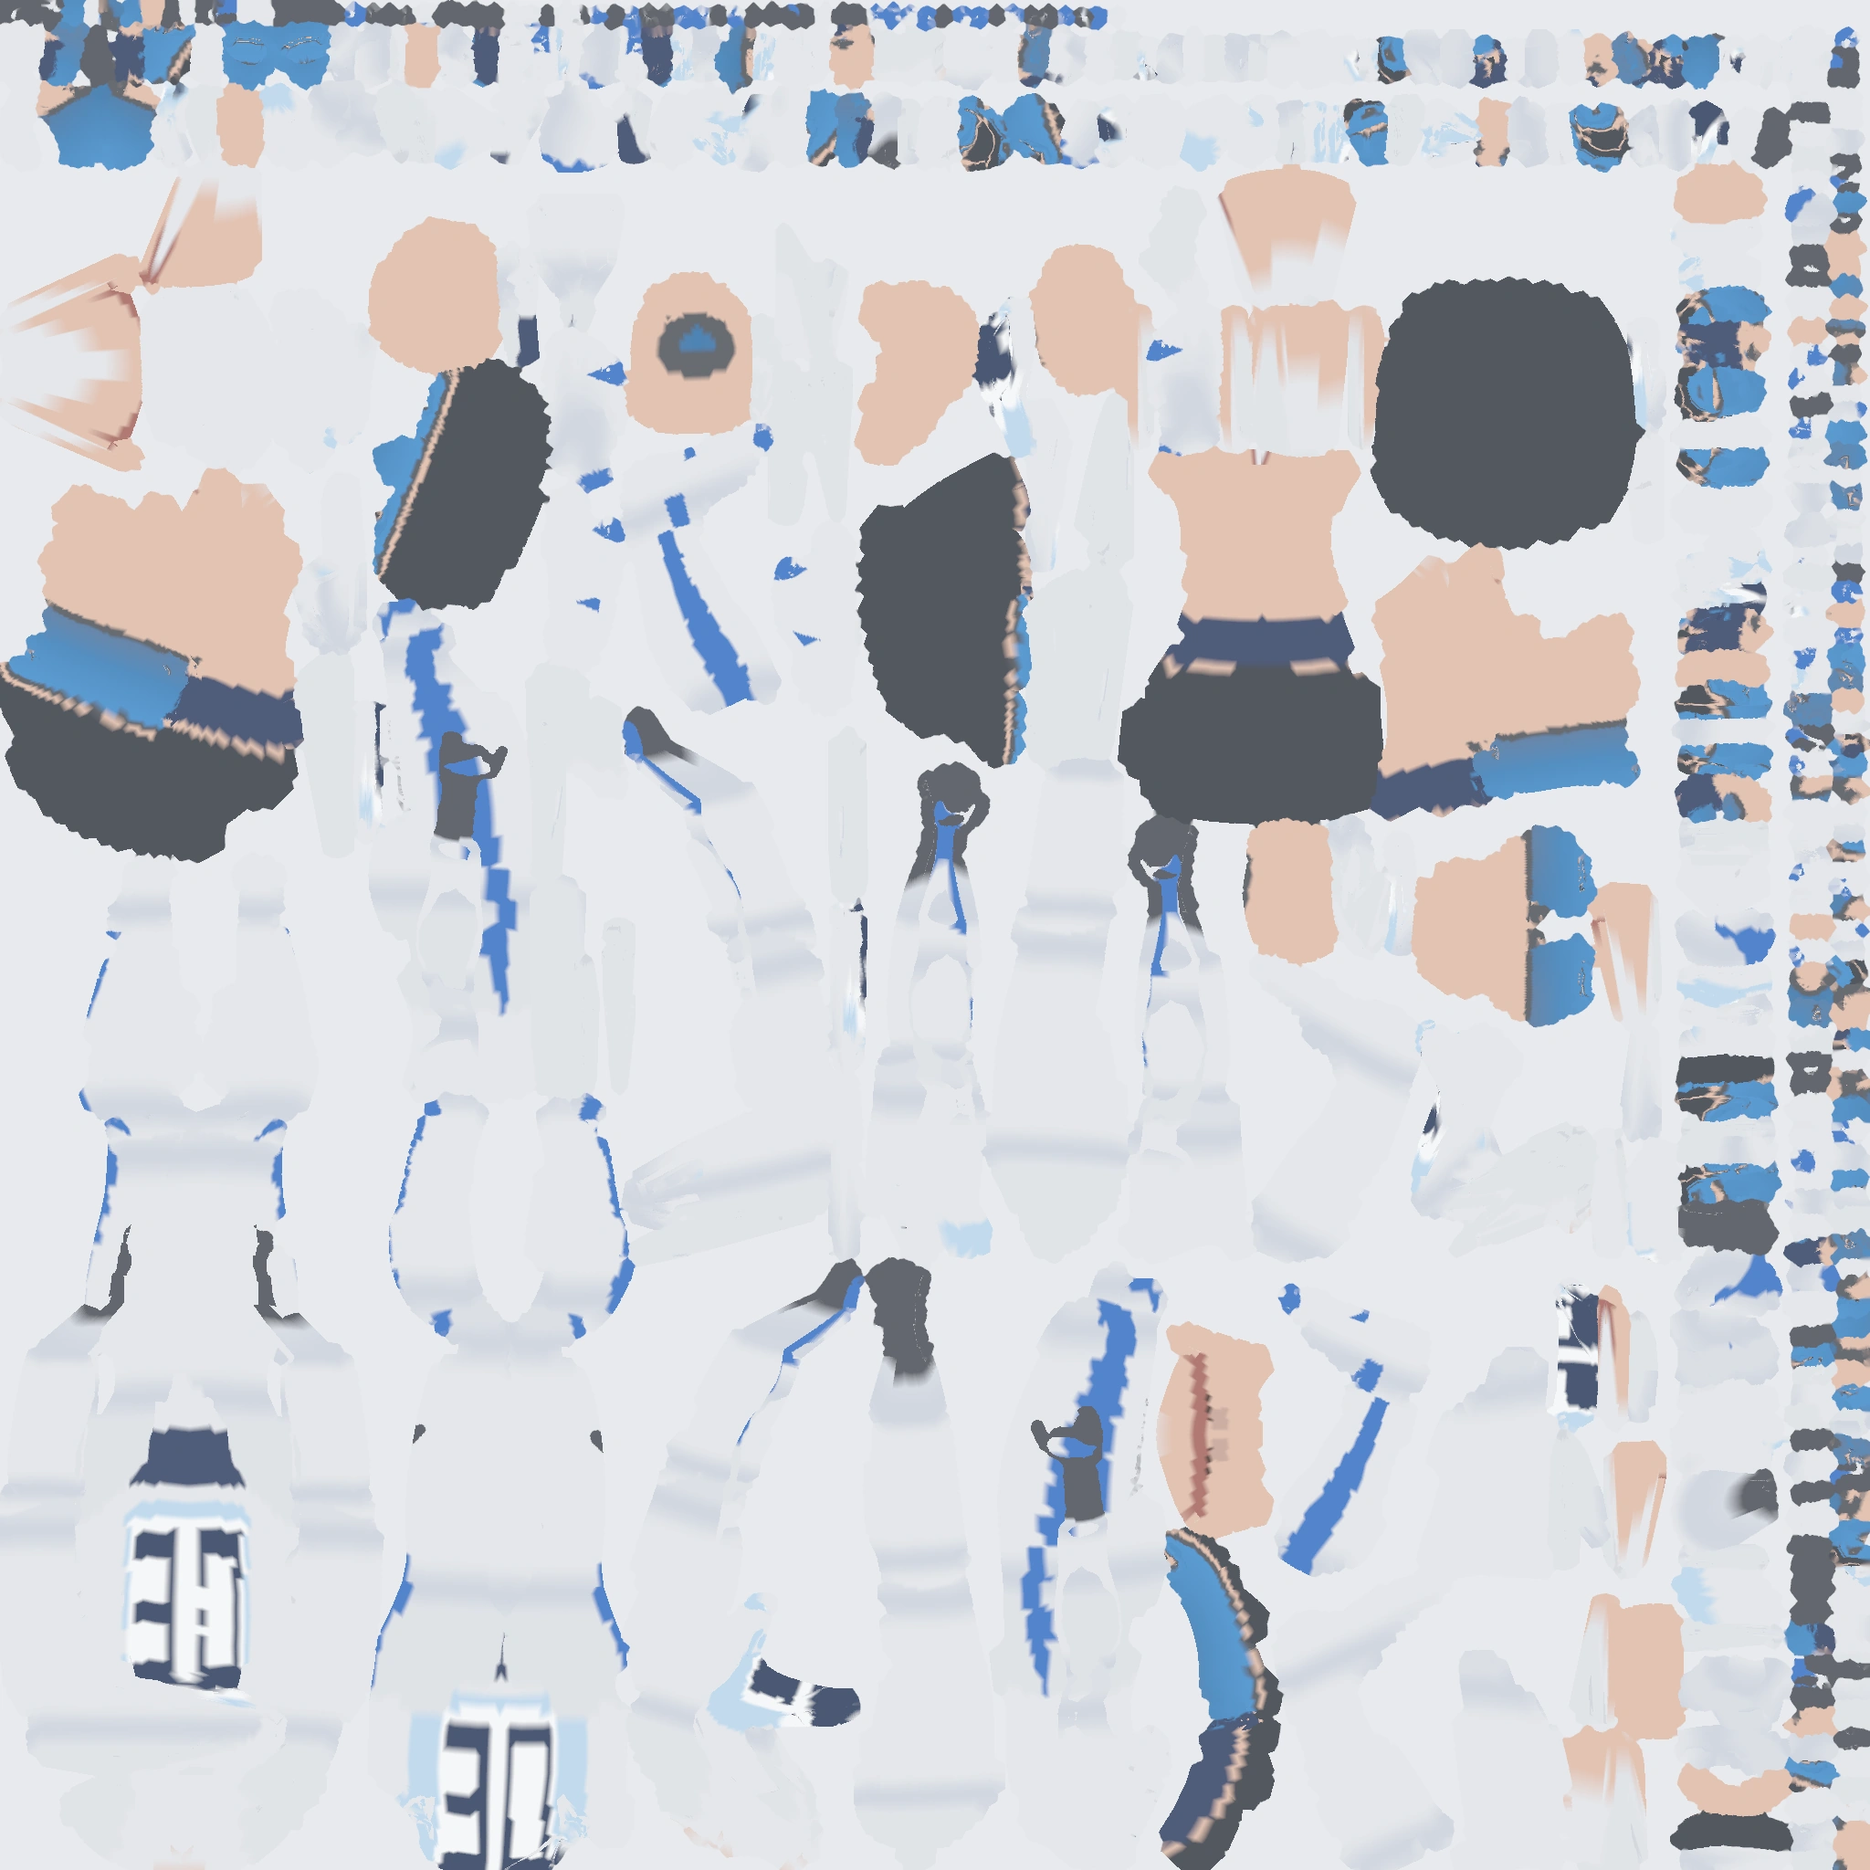
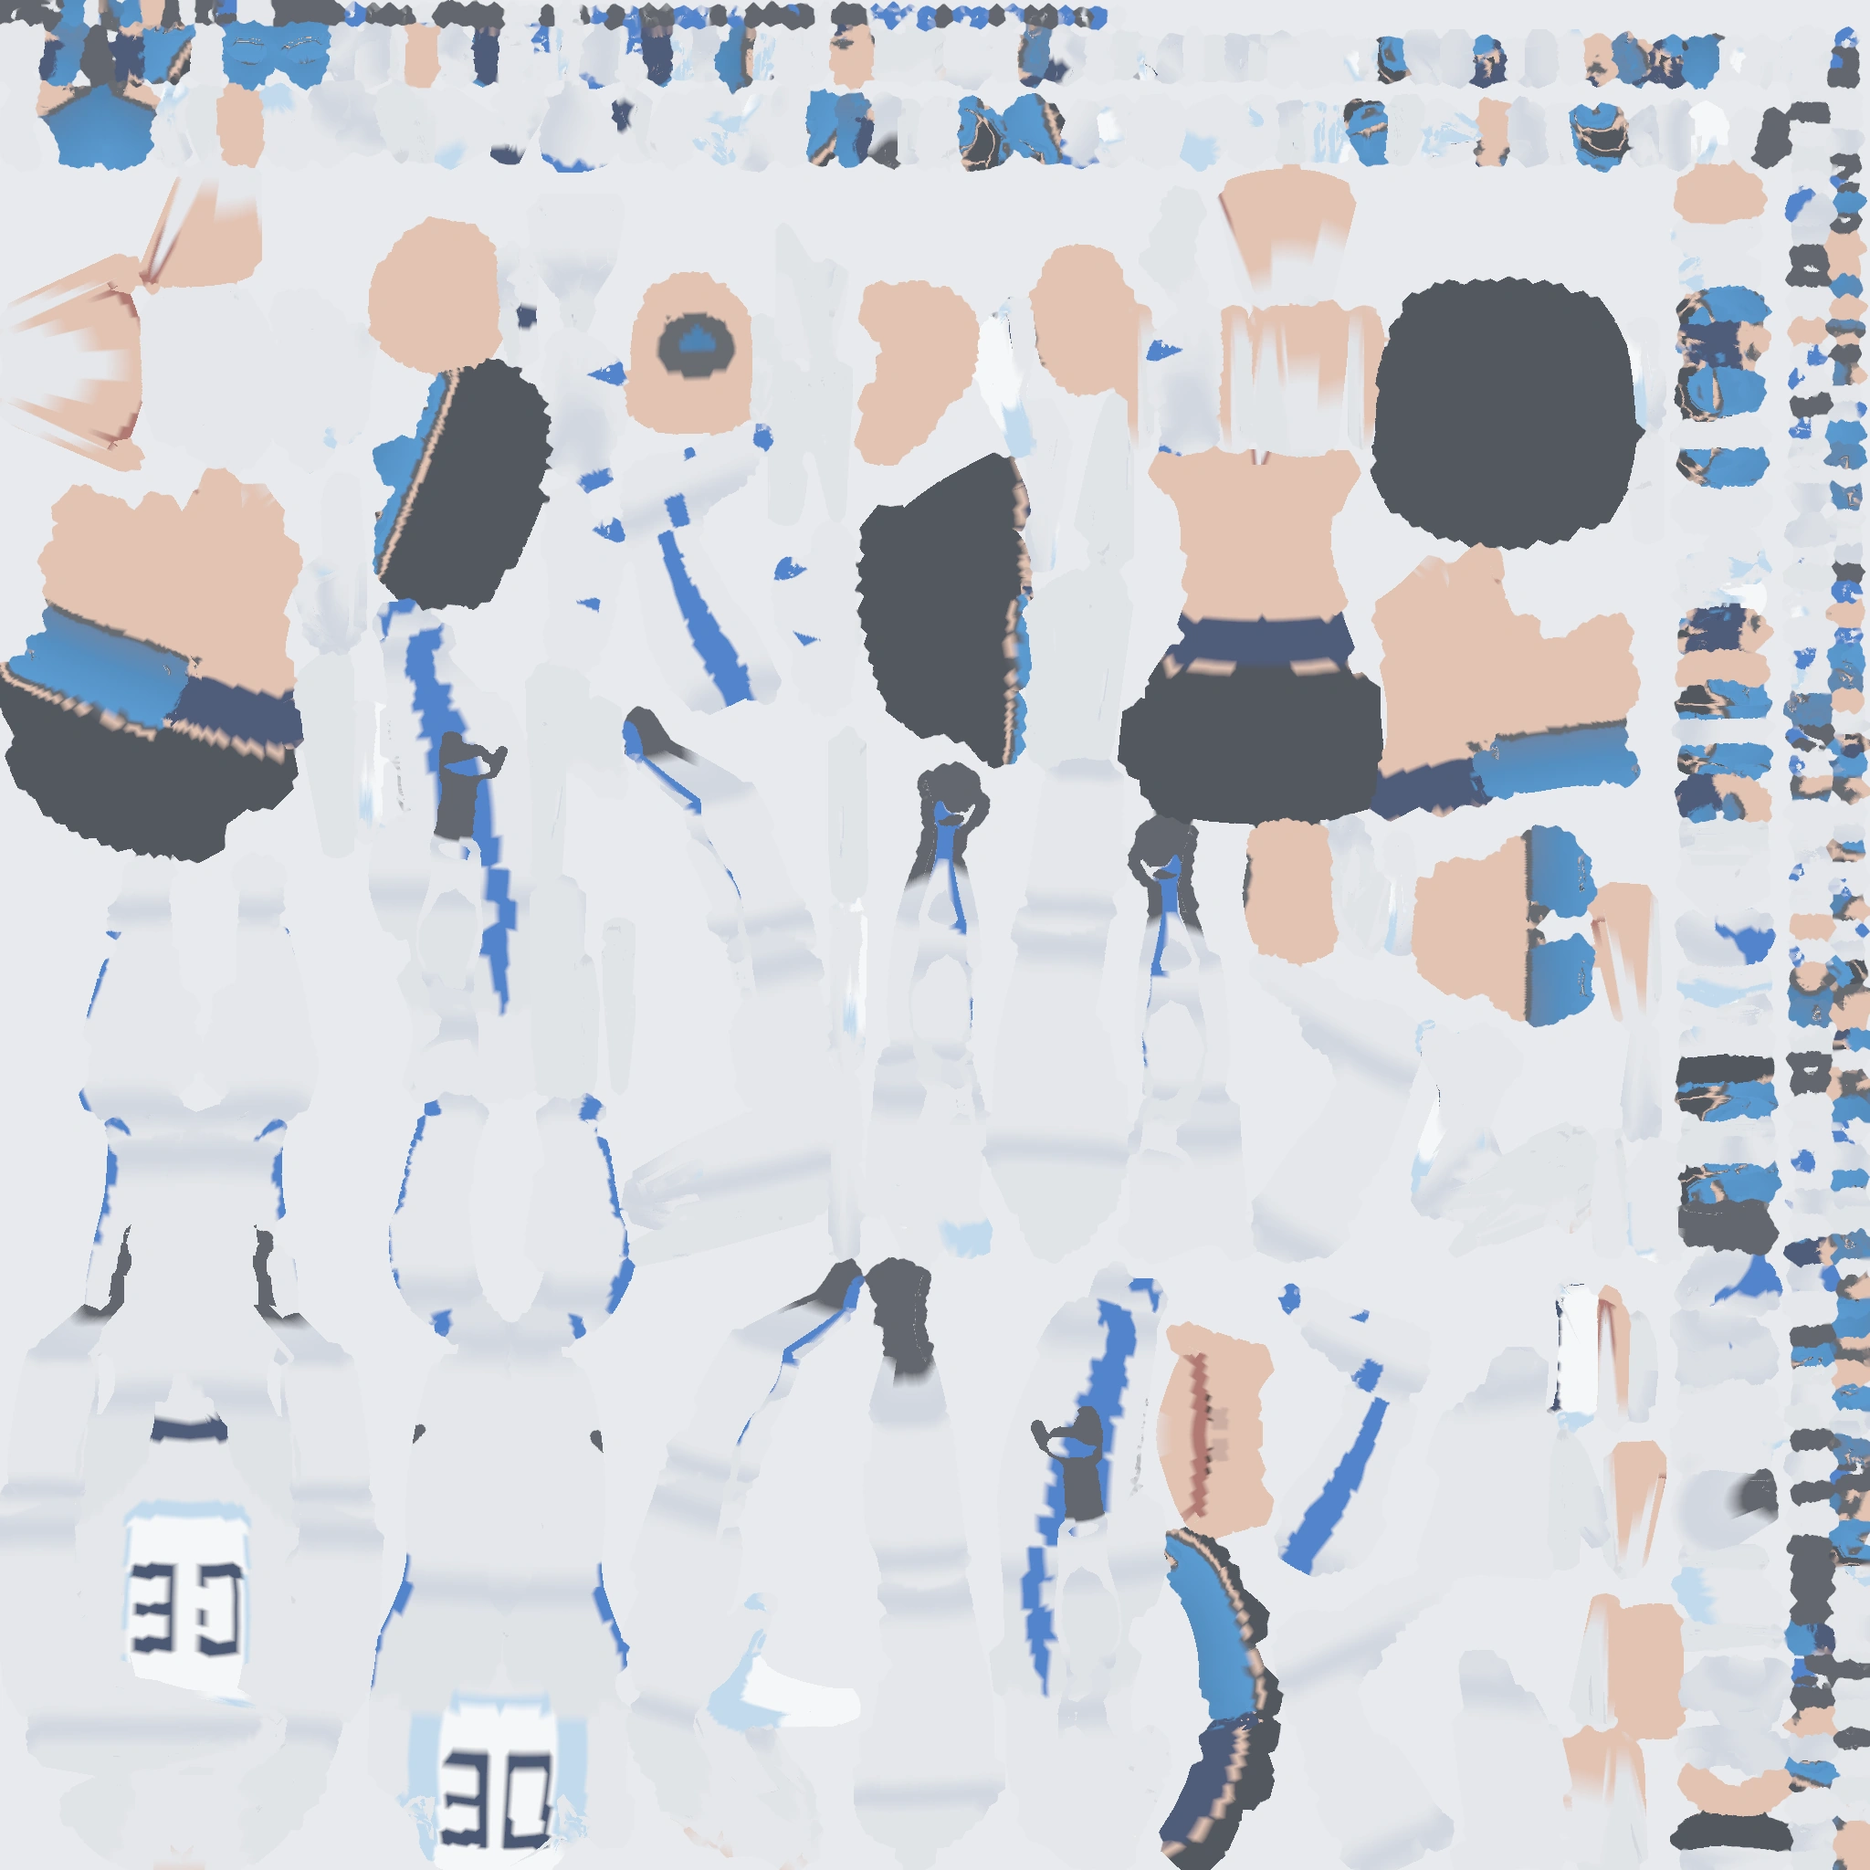
Opus: the back bib's dark slab was the WAISTBAND, and the "30" was a bar, not a numeral
Clears the blocking red: bib-number back-face navyFrac 0.4074 -> 0.0840
(gate < 0.25). Two independent defects, both measured off the reviewer's
own shots/bib_back.png before anything was changed.

1. THE DARK SLAB IS NOT THE NUMBER. Decomposing the gate's box by row
   band on the shipped shot: the bottom two fifths read 0.612 and 0.832
   navy while the three fifths holding the actual digits read 0.086 /
   0.566 / 0.000. That bottom band is the WAIST region (torso along
   -0.95..-0.70), which began 0.02 along-units below the bib's lower edge
   (-0.68) — so from behind, where a forward-leaning torso lifts its rear
   surface, a 7 cm navy band sat directly under the bib and filled 40% of
   the box. It was ~70% of the 0.41 navy fraction; the digits were never
   the problem. The waistband is now a belt at the hip (-1.00..-0.90).

2. THE DIGITS REALLY WERE BARS. The ink band took 90% of the plate
   height, making each digit 7.0 x 21.3 cm — aspect 0.33. A drawn numeral
   is near 0.58. The band is now the middle 52% of the plate and a digit
   measures 7.0 x 12.3 cm, aspect 0.573. New build gate BIB_ASPECT
   (0.45..0.75) on the cell aspect; negative control
   BODY_SABOTAGE_BIBASPECT=1 restores the old band and FAILS the gate at
   0.331 (scratch s5/negctl_aspect.log).

Two things I got wrong on the way, recorded because the numbers say so:

  - I diagnosed the front/back ink asymmetry (bake gate: front 0.377 vs
[…]

diff --git a/index.html b/index.html
@@ -13,11 +13,11 @@
       ASSET_V in game.js or the preload fetches a different URL from the one
       the loader asks for and the browser downloads each file twice.
     -->
-    <link rel="preload" as="fetch" crossorigin="anonymous" href="assets/athlete_body.glb?v=37" />
-    <link rel="preload" as="image" href="assets/athlete_albedo.webp?v=37" />
-    <link rel="preload" as="image" href="assets/athlete_normal.webp?v=37" />
-    <link rel="preload" as="image" href="assets/athlete_ao.webp?v=37" />
-    <link rel="preload" as="fetch" crossorigin="anonymous" href="assets/athlete_maps.json?v=37" />
+    <link rel="preload" as="fetch" crossorigin="anonymous" href="assets/athlete_body.glb?v=38" />
+    <link rel="preload" as="image" href="assets/athlete_albedo.webp?v=38" />
+    <link rel="preload" as="image" href="assets/athlete_normal.webp?v=38" />
+    <link rel="preload" as="image" href="assets/athlete_ao.webp?v=38" />
+    <link rel="preload" as="fetch" crossorigin="anonymous" href="assets/athlete_maps.json?v=38" />
     <style>
         * { margin: 0; padding: 0; box-sizing: border-box; }
         html, body { width: 100%; height: 100%; overflow: hidden; background: #000; }
@@ -2702,7 +2702,7 @@
             { local: 'engine/core/tricks.js?v=22',        cdn: null },
             { local: 'engine/core/landing.js?v=22',       cdn: null },
             { local: 'engine/disciplines/aerial-ski.js?v=22',  cdn: null },
-            { local: 'game.js?v=31',                   cdn: null }
+            { local: 'game.js?v=32',                   cdn: null }
         ];
         var ERR_HTML = '<div style="text-align:center;padding:20px"><div style="font-size:48px;margin-bottom:16px">⛷</div>'
             + '<h2 style="color:#fff;margin-bottom:10px">Could not load game engine</h2>'

diff --git a/game.js b/game.js
@@ -1587,7 +1587,7 @@ void main(void) {
     // assets did not, so a rebuilt athlete or a re-baked map kept rendering from
     // the browser cache and every change looked like it had not been applied.
     // Bump this whenever assets/ is regenerated.
-    const ASSET_V = '?v=37';   // 37: item 11 — leg taper (calf/thigh 0.937 -> 0.718): the shin is sized by the taper target, not by the calf/hip lower bound that inflated it; 36: goggles moved onto the eyes (band 0.40-0.57h, mirrored blue) + helmet re-seated on the skull (cranium bbox midpoint, not centroid); 35: athlete head atlas share 4.9%->28.3% + maps re-encoded PNG->WebP (8.26 MB -> 1.12 MB); 34: P5 chopped-landing bake
+    const ASSET_V = '?v=38';   // 38: bib number — back plate un-clipped from bib_mask's wrap ramp (bake ink front/back 0.377/0.175 -> 0.110/0.109), digit aspect 0.33 -> 0.57, navy waistband moved off the bib's lower edge to the hip; 37: item 11 — leg taper (calf/thigh 0.937 -> 0.718): the shin is sized by the taper target, not by the calf/hip lower bound that inflated it; 36: goggles moved onto the eyes (band 0.40-0.57h, mirrored blue) + helmet re-seated on the skull (cranium bbox midpoint, not centroid); 35: athlete head atlas share 4.9%->28.3% + maps re-encoded PNG->WebP (8.26 MB -> 1.12 MB); 34: P5 chopped-landing bake
 
     // ── Baked lighting for the static scenery ───────────────────────────────
     // Blender bakes the two terms this renderer cannot compute, and BOTH are

diff --git a/blender/build_body.py b/blender/build_body.py
@@ -4230,14 +4230,25 @@ def bib_mask(name, along, front, lat):
 #   what makes both readable to their respective viewers instead of one being
 #   printed through the body like a transfer decal.
 #
-#   SIZE. The bib spans 1.20 along-units (h/2 = 0.275 m per unit ⇒ 0.33 m).
-#   The digit plate covers along −0.54..+0.32 (71% of the bib height) and the
-#   ink band 90% of THAT, giving digits ≈ 0.19 m tall ≈ 58–65% of the bib —
-#   inside the acceptance band (≥ 60% of the bib height).
+#   SIZE, and the ASPECT that size implies. The bib spans 1.20 along-units
+#   (h/2 = 0.275 m per unit ⇒ 0.33 m). The digit plate covers along
+#   −0.54..+0.32 (71% of the bib height ⇒ 0.2365 m) and is 2·NUM_W = 0.15 m
+#   wide, so each of the two digit cells is 0.47 · 0.15 = 0.0705 m wide.
+#   The ink band used to take 90% of the plate height, which made every digit
+#   0.0705 m wide by 0.213 m tall — an aspect of 0.33, i.e. a vertical BAR.
+#   A drawn numeral is about 0.58 wide-over-tall, so the band is now the
+#   middle 52% of the plate (0.24..0.76) and a digit measures 0.0705 × 0.122 m
+#   ⇒ aspect 0.58. The plate's own footprint is deliberately unchanged: it
+#   sets how much bib blue the render gate's box sees beside and around the
+#   number, and that balance is what bib-number.spec's blueFrac bands measure.
 
 NUM_W = 0.075                    # patch half-width in metres (15 cm wide)
 NUM_A0, NUM_A1 = -0.54, 0.32     # patch along-span
-NUM_DV0, NUM_DV1 = 0.06, 0.96    # ink occupies this vertical share of the patch
+# Negative control for the digit-aspect gate: the pre-fix full-height ink
+# band, which made each digit 7.0 x 21.3 cm (aspect 0.33 — a vertical bar).
+NUM_DV0, NUM_DV1 = ((0.06, 0.96)
+                    if os.environ.get('BODY_SABOTAGE_BIBASPECT') == '1'
+                    else (0.24, 0.76))   # ink's vertical share of the patch
 NUM_INK = (0.07, 0.10, 0.18)     # dark navy on the white plate
 
 # Glyph outlines as (u0,u1,v0,v1) rectangles in a per-digit cell [0,1]².
@@ -4274,6 +4285,18 @@ def number_uv(front, lx, along):
     and vice versa. Swapping the branches puts each rule on the side its
     normal actually faces; both plates now read left-to-right to their own
     viewer (verified in the rebuilt assets at the look camera).
+
+    STILL OPEN (session 5, 2026-08-29). Paused close-ups taken down
+    _athleteFacing().forward (scratch s5/plate*_{front,back}_z.png) show the
+    CHEST reading a clean "30" and the BACK reading a mirrored glyph pair.
+    Both branch values were built and photographed: with `- lx` the back
+    reads "E0" (cell order right, each glyph mirrored); with `+ lx` it reads
+    "0E" (cell order reversed, glyphs still mirrored). No choice of sign in
+    THIS function produces a correct back, because flipping u flips the cell
+    order and the within-cell orientation together — so whatever mirrors the
+    back plate is upstream of the u mapping, not in it. `- lx` is kept: it is
+    the shipped mapping and it is the one that gets the digit ORDER right.
+    Do not "fix" this by flipping the sign again; it has been measured.
     """
     u = (NUM_W + lx) / (2 * NUM_W) if front > 0 else (NUM_W - lx) / (2 * NUM_W)
     return u, (along - NUM_A0) / (NUM_A1 - NUM_A0)
@@ -4609,7 +4632,16 @@ def paint_suit(obj, lm):
                 col, tag = HELMET, 'helmet'
         elif name.startswith('lowerArm') and along < -0.78:
             col, tag = GLOVE, 'glove'
-        elif name == 'torso' and -0.95 < along < -0.70:
+        elif name == 'torso' and -1.00 < along < -0.90:
+            # A waistband at the HIP, not a slab across the lower back. It
+            # used to span -0.95..-0.70, i.e. it began 2 hundredths of an
+            # along-unit below the bib's lower edge (-0.68) — so from behind,
+            # where a forward-leaning torso lifts its rear surface, a 7 cm
+            # navy band sat immediately under the bib and filled the bottom
+            # 40% of the render gate's box: measured 0.61 and 0.83 navy in
+            # the box's lowest two fifths, against 0.09/0.57/0.00 for the
+            # three fifths that hold the actual number. That band, not the
+            # digits, was ~70% of the back face's 0.4099 navy fraction.
             col, tag = WAIST, 'waist'
         elif name.startswith(('upperLeg', 'lowerLeg')):
             # See displace_suit for the transverse-angle convention: outboard is
@@ -4625,16 +4657,26 @@ def paint_suit(obj, lm):
             if dphi < 0.32:
                 col, tag = STRIPE, 'stripe'
 
-        if bib_mask(name, along, front, lx) > 0.5:
-            # A real competition numeral: dark navy "30" on the white plate,
-            # on both faces, each reading left-to-right to its own viewer
-            # (see the orientation essay above bib_mask).
-            if in_number_patch(name, along, front, lx):
-                u, v = number_uv(front, lx, along)
-                col = NUM_INK if digit30_mask(u, v) > 0.5 else BIB_NUMBER
-                tag = 'number'
-            else:
-                col, tag = BIB, 'bib'
+        # A real competition numeral: dark navy "30" on the white plate, on
+        # both faces, each reading left-to-right to its own viewer (see the
+        # orientation essay above bib_mask).
+        #
+        # The plate is tested BEFORE, and independently of, the wrap ramp.
+        # It used to be nested inside `bib_mask > 0.5`. That nesting was a
+        # latent trap rather than an active bug: the back wrap crosses 0.5 at
+        # |lx| = 0.08, just 5 mm outside the patch's own NUM_W = 0.075, so the
+        # plate fitted through with almost no margin and any widening of the
+        # patch would have silently started shaving its outer columns. It was
+        # measured, not assumed — a build with the nesting restored produced
+        # ink fractions identical to this one (0.110 front / 0.109 back), so
+        # the clip was NOT the cause of the 0.377-vs-0.175 asymmetry the
+        # earlier builds showed; the ink band did that (see NUM_DV0/NUM_DV1).
+        if in_number_patch(name, along, front, lx):
+            u, v = number_uv(front, lx, along)
+            col = NUM_INK if digit30_mask(u, v) > 0.5 else BIB_NUMBER
+            tag = 'number'
+        elif bib_mask(name, along, front, lx) > 0.5:
+            col, tag = BIB, 'bib'
         if tag == 'suit':
             f = fold_shade(name, along)
             if f > 0.0:
@@ -4697,6 +4739,9 @@ def _bin_blobs(on_bins):
             x, y = q
             stack += [(x + 1, y), (x - 1, y), (x, y + 1), (x, y - 1)]
     return n
+
+
+BIB_ASPECT = (0.45, 0.75)        # digit cell width / height
 
 
 def bib_number_gate(low, out_dir):
@@ -4812,6 +4857,31 @@ def bib_number_gate(low, out_dir):
                 f'fraction {frac:.3f} — outside the plausible band '
                 f'[0.10, 0.45] (≥300 samples required): digits did not land')
     bpy.data.images.remove(img)
+
+    # Front/back ink is logged, NOT gated. A symmetry gate was written here
+    # and then removed: with the front at 0.110 against the [0.10, 0.45]
+    # floor, any face that loses enough ink to break a 1.35 ratio breaks the
+    # floor first, so the ratio gate could never fire on its own — its
+    # negative control (BODY_SABOTAGE_BIBFACE, halving the back plate's ink)
+    # tripped the FRACTION gate at 0.017 and never reached it. A gate that
+    # cannot fire independently of one already present is decoration.
+    fr, bk = report['front'][1], report['back'][1]
+    log(f'bib number faces: front {fr:.3f} / back {bk:.3f} '
+        f'= ratio {max(fr, bk) / max(1e-6, min(fr, bk)):.2f} (instrument)')
+
+    # ASPECT. A digit cell is 0.47 of the plate width by the ink band's share
+    # of its height. At 0.33 the "30" renders as two vertical bars; a drawn
+    # numeral is near 0.58.
+    cell_w = 0.47 * 2 * NUM_W
+    cell_h = (NUM_DV1 - NUM_DV0) * (NUM_A1 - NUM_A0) * (SEGMENTS['torso']['h'] / 2)
+    aspect = cell_w / cell_h
+    log(f'bib digit cell: {cell_w * 100:.1f} x {cell_h * 100:.1f} cm, '
+        f'aspect {aspect:.3f} (band {BIB_ASPECT[0]}-{BIB_ASPECT[1]})')
+    if not (BIB_ASPECT[0] <= aspect <= BIB_ASPECT[1]):
+        raise SystemExit(
+            f'[body] bib digit aspect {aspect:.3f} outside {BIB_ASPECT} — '
+            f'each digit measures {cell_w * 100:.1f} x {cell_h * 100:.1f} cm, '
+            f'which reads as a bar, not a numeral')
     return report
 
 
